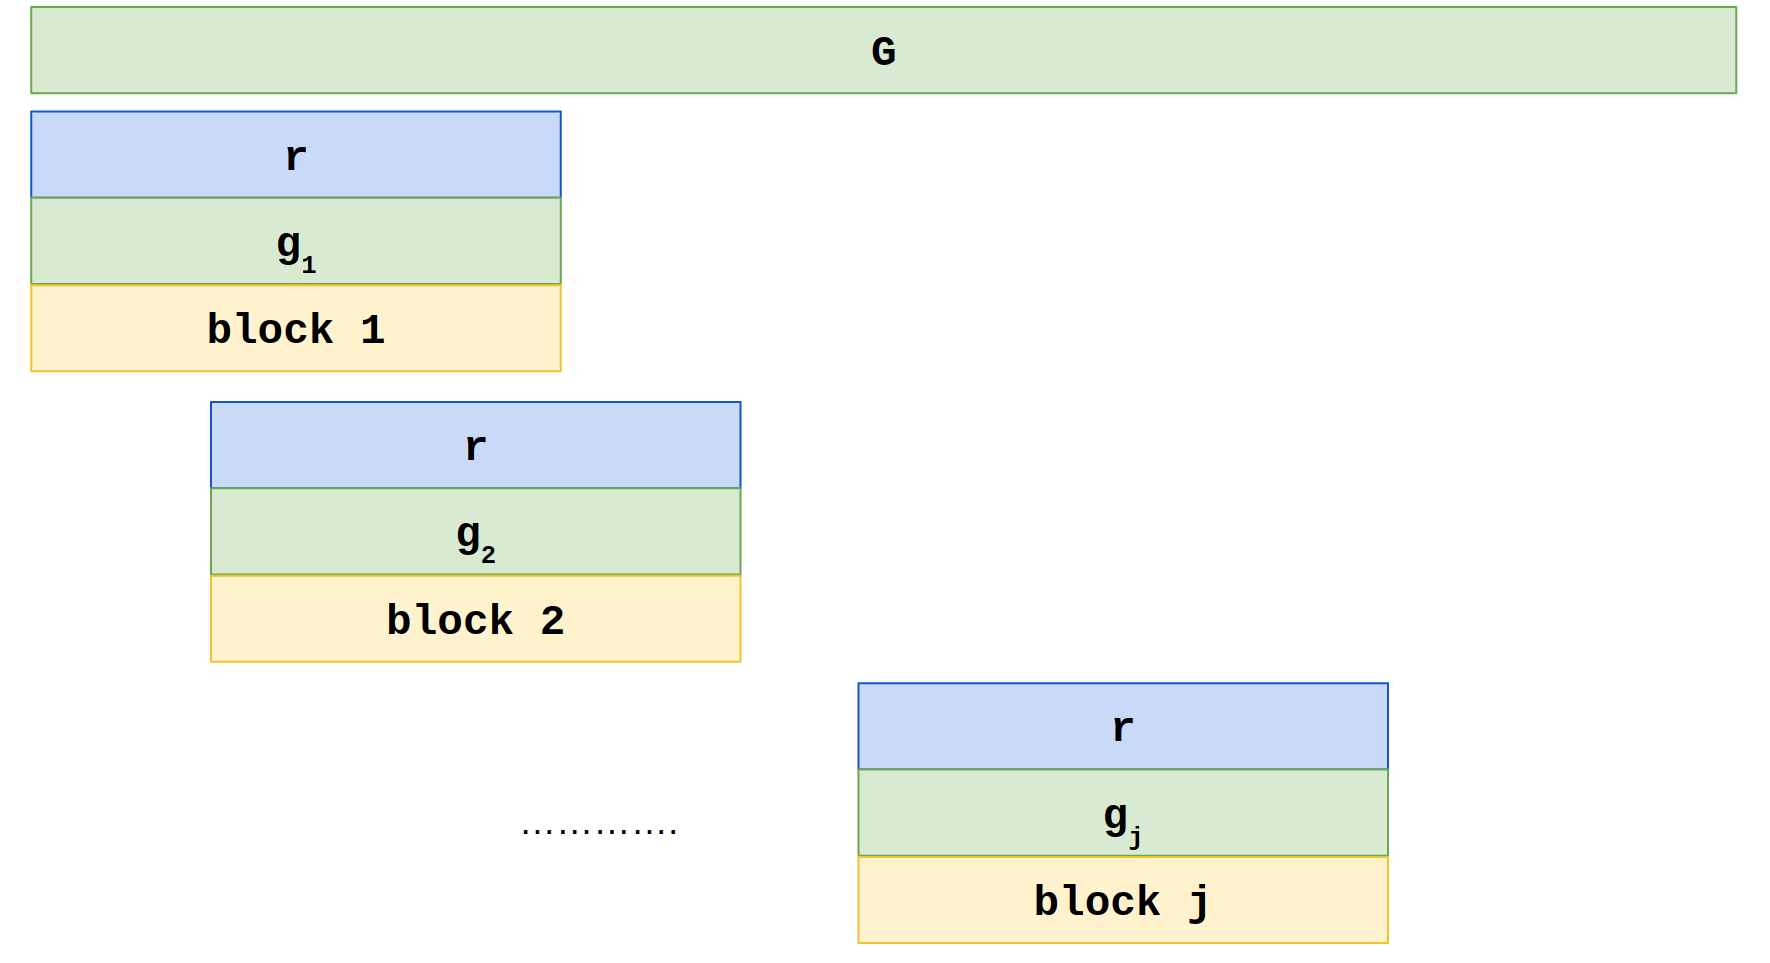
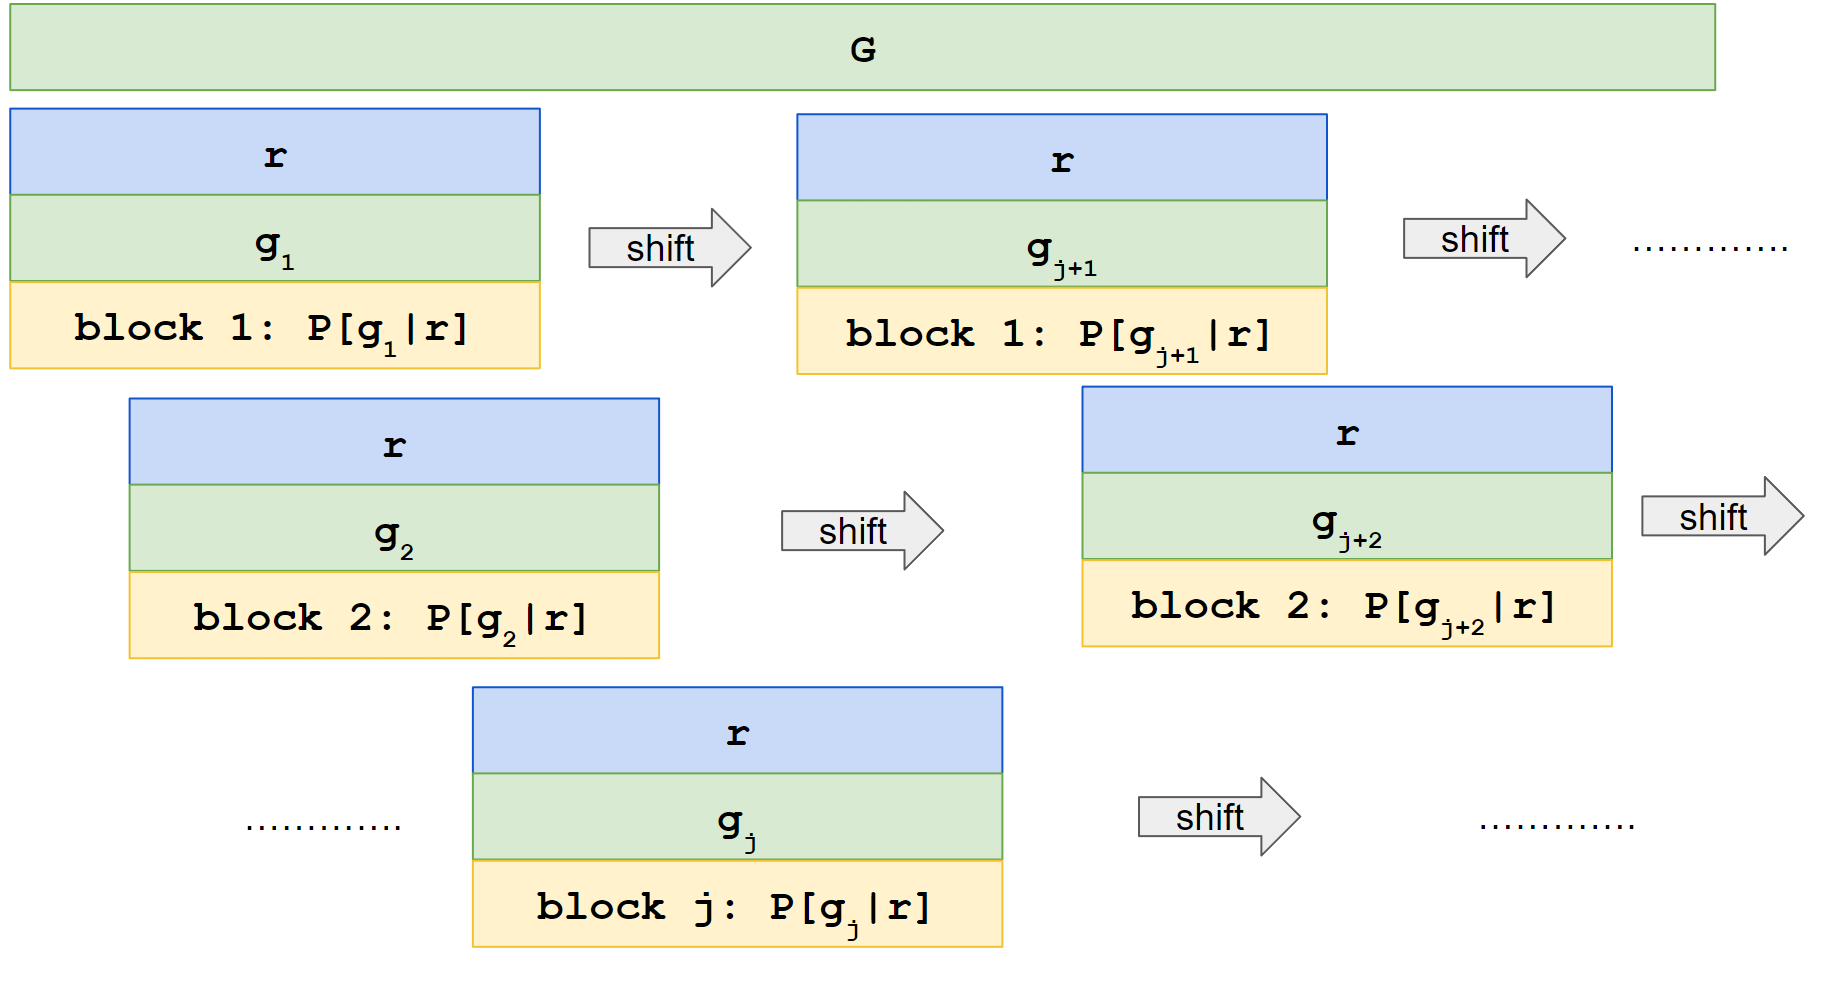
Update figure

diff --git a/thesis.tex b/thesis.tex
@@ -148,7 +148,7 @@ It is obvious that, the above equation requires computing the summation of produ
 
 \chapter{Method}
 \section{Method Overview}
-In the original EAGLE publication, for all called variants, a hypothesis: instead of being identical to the reference genome $G_{ref}$, the individual providing the sequenced reads possesses an alternative version of human genome $G_{alt}$ consisting the called variant, is considered. The default hypothesis, assuming that the read being sequenced from the reference genome solely, is also considered. In order to assess how well the above two hypotheses fits the sequenced read data $r$, the likelihood, $P[r|G]$, for both $G_{ref}$ and $G_{alt}$ is measured. The ratio between the two would be obtained as the resulting quality score for the called variant constructing the alternative genome $G_{alt}$, revealing how confident we are that the called variant is actually present for the sequenced individual. As described in the previous chapter, the probabilities of all read $r$ and genome segment ${g\in G}$ pairs, $P[r|g]$, are calculated and then further summed up to acquire $P[r|G]$. Although this is undoubtedly a straightforward solution, numerous time consuming operations were done in the above operation, looping over all possible pairs of $r$ and $g$. Not to mention that such process should be repeated for all called variants, each of them considering every read that could map to related positions, twice for both $G_{ref}$ and the constructed $G_{alt}$. A brief pseudocode of the implementation demonstrating the looped structure is shown in Algorithm \ref{alg:loop}.
+In the original EAGLE publication, for all called variants, a hypothesis: instead of being identical to the reference genome $G_{ref}$, the individual providing the sequenced reads possesses an alternative version of human genome $G_{alt}$ consisting the called variant, is considered. The default hypothesis, assuming that the read being sequenced from the reference genome solely, is also considered. In order to assess how well the above two hypotheses fits the sequenced read data $r$, the likelihood, $P[r|G]$, for both $G_{ref}$ and $G_{alt}$ is measured. The ratio between the two would be obtained as the resulting quality score for the called variant constructing the alternative genome $G_{alt}$, revealing how confident we are that the called variant is actually present for the sequenced individual. As described in the previous chapter, the probabilities of all read $r$ and genome segment ${g\in G}$ pairs, $P[g|r]$, are calculated and then further summed up to acquire $P[r|G]$. Although this is undoubtedly a straightforward solution, numerous time consuming operations were done in the above operation, looping over all possible pairs of $r$ and $g$. Not to mention that such process should be repeated for all called variants, each of them considering every read that could map to related positions, twice for both $G_{ref}$ and the constructed $G_{alt}$. A brief pseudocode of the implementation demonstrating the looped structure is shown in Algorithm \ref{alg:loop}.
 \begin{algorithm}
 	\caption{Pseudocode of the implementation without parallelism}
 	\label{alg:loop}
@@ -234,12 +234,12 @@ Since the likelihood of each base pair $(g_i, r_i)$ being a match/mismatch is in
 \end{figure}
 
 \subsection{Computing the likelihood with given reference genome}
-Now we have $P[g|r]$ parallelized, we would like to further extend the degree of parallelism, seeking to utilize the performance provided by the GPU. Here, we take a closer look at the intermediate term, $P[r|G]$. In most cases, knowing the exact genome segment $g$ where read sequence $r$ is sequenced from in advance is unrealistic. Thus, in the original method, for all possible genome segment $g$ sampled from the hypothesis genome $G$ having a overlap with the called variant position, with the exact length ${\ell_r}$ as the given read $r$, were considered. Namely, we have to iteratively calculate $P[r|g] \forall g \in G$, before we add them up for the final result. This leads to at most $2{\ell_r}$ possible $g$s to be processed. Despite the implementation described above, we would still have to launch the kernel calculating $P[g|r]$ as many times as the count of overlapping $g$s, at most $2{\ell_r}$, to acquire a single result of $P[r|G]$.  Consequently, the execution time required grows in polynomial time with the sequence length. Similar to the concept when we implemented parallelized $P[g|r]$, though, it is apparent that the computation of $P[r|g]$ for different $g \in G$ is also independent. This opens up yet another opportunity for parallelism by using multiple blocks of threads, with each executing the kernel described in the previous section. In addition to the entire read $r$, we could also load the selected genome $G$ to the GPU instead of just a segment $g$. Subsequently, we allocate a block of threads for each possible genome segment $g$. 
-That is, with $g_a$ denoting the $a$th possible genome segment with length ${\ell_r}$, we allocate $j$th CUDA block to calculate $P[g_{j+k}|r]$, for all $k \in \mathbb{Z} ,0 \leq k, j+k \leq {2*\ell_r}$. Sush procedure is shown in Figure \ref{fig:prG}. Just like what we discussed in the previous section, with shorter read data, there is a high possibility that we have enough blocks to allocate exact one genome segment $g$ to a single block, and enough threads in each block to allocate a single sequence base to a thread. To better demonstrate this concept, the probability a thread needs to compute is illustrated in Figure \ref{fig:tv}, with $t_{jk}$ denoting the $k$th thread in the $j$th block, $r_i$ being the $i$th base of the read and $g_{ab}$ representing the $b$th base of the $a$th possible genome segment with length ${\ell_r}$. Having that in mind, it is easy now for us to scale up the solution for longer read data. For the general recursive expression, thread $t_{jk}$ should be responsible for $P[g_{k+NB,j+MT}|r_{j+MT}]$, where $B$ is the number of blocks launched and $T$ is the amount of threads per block, and that $N \in \mathbb{Z} ,0 \leq N, k+NB \leq {\ell_r}, M \in \mathbb{Z} ,0 \leq M, j+MT \leq {\ell_r}$.
+Now we have $P[g|r]$ parallelized, we would like to further extend the degree of parallelism, seeking to utilize the performance provided by the GPU. Here, we take a closer look at the intermediate term, $P[r|G]$. In most cases, knowing the exact genome segment $g$ where read sequence $r$ is sequenced from in advance is unrealistic. Thus, in the original method, for all possible genome segment $g$ sampled from the hypothesis genome $G$ having a overlap with the called variant position, with the exact length ${\ell_r}$ as the given read $r$, were considered. Namely, we have to iteratively calculate $P[g|r] \forall g \in G$, before we add them up for the final result. This leads to at most $2{\ell_r}$ possible $g$s to be processed. Despite the implementation described above, we would still have to launch the kernel calculating $P[g|r]$ as many times as the count of overlapping $g$s, at most $2{\ell_r}$, to acquire a single result of $P[r|G]$.  Consequently, the execution time required grows in polynomial time with the sequence length. Similar to the concept when we implemented parallelized $P[g|r]$, though, it is apparent that the computation of $P[g|r]$ for different $g \in G$ is also independent. This opens up yet another opportunity for parallelism by using multiple blocks of threads, with each executing the kernel described in the previous section. In addition to the entire read $r$, we could also load the selected genome $G$ to the GPU instead of just a segment $g$. Subsequently, we allocate a block of threads for each possible genome segment $g$. 
+That is, with $g_a$ denoting the $a$th possible genome segment with length ${\ell_r}$, we allocate $j$th CUDA block to calculate $P[g_{j+k}|r]$, for all $k \in \mathbb{Z} ,0 \leq k, j+k \leq {2*\ell_r}$. Sush procedure is shown in Figure \ref{fig:prG}. Just like what we discussed in the previous section, with shorter read data, there is a high possibility that we have enough blocks to allocate exact one genome segment $g$ to a single block, and enough threads in each block to allocate a single sequence base to a thread. To better demonstrate this concept, the probability a thread needs to compute is illustrated in Figure \ref{fig:tv}, with $t_{jk}$ denoting the $k$th thread in the $j$th block, $r_i$ being the $i$th base of the read and $g_{ab}$ representing the $b$th base of the $a$th possible genome segment with length ${\ell_r}$. Having that in mind, it is easy now for us to scale up the solution for longer read data. For the general recursive expression, thread $t_{jk}$ should be responsible for $P[g_{k+NB,j+MT}|r_{j+MT}]$, where $B$ is the number of blocks launched and $T$ is the amount of threads per block, and that $N, M \in \mathbb{Z} ,0 \leq N, k+NB \leq {\ell_r}, 0 \leq M, j+MT \leq {\ell_r}$.
 \begin{figure}
 	\centering
 	\includegraphics[scale=0.3]{figures/prG.png}
-	\caption{Multiple CUDA blocks when parallel computing $P[r|G]$}
+	\caption{Parallel computing for $P[r|G]$ using $j$ CUDA blocks}
 	\label{fig:prG} % \ref{this label}
 \end{figure}
 \begin{figure}
